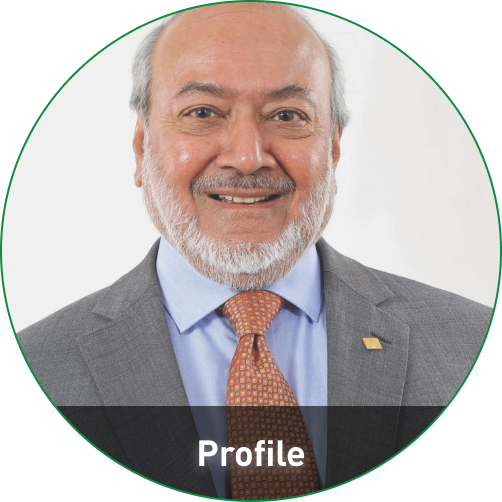
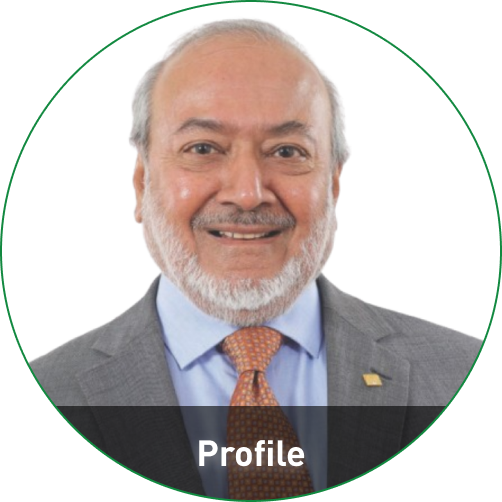
change image of habil

diff --git a/src/app/Home/web/the-summit/the-summit.component.html b/src/app/Home/web/the-summit/the-summit.component.html
@@ -2964,7 +2964,7 @@
       <div class="modal-header py-0 px-lg-5">
         <div class="col-2">
           <img
-            src="assets/UIComponents/images/speakers/habil.jpeg"
+            src="assets/UIComponents/images/speakers/habil.png"
             alt=""
             width="100%"
           />
